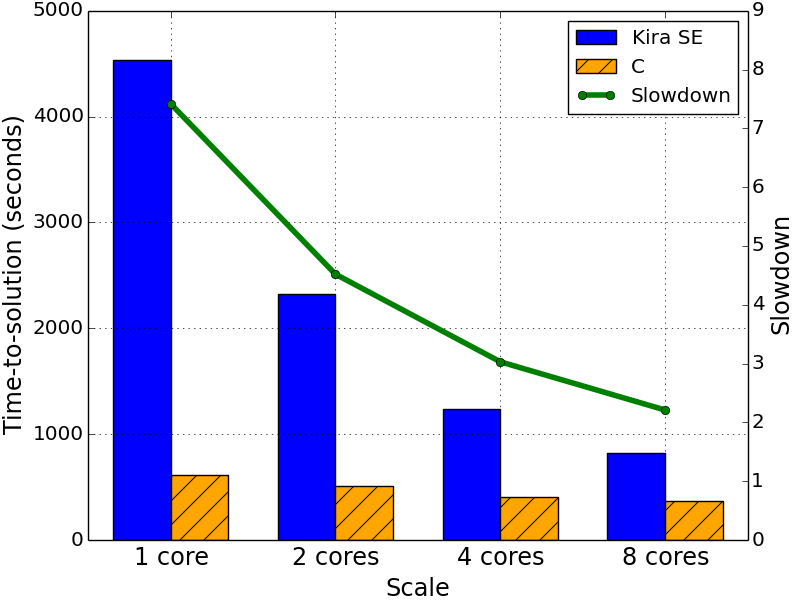
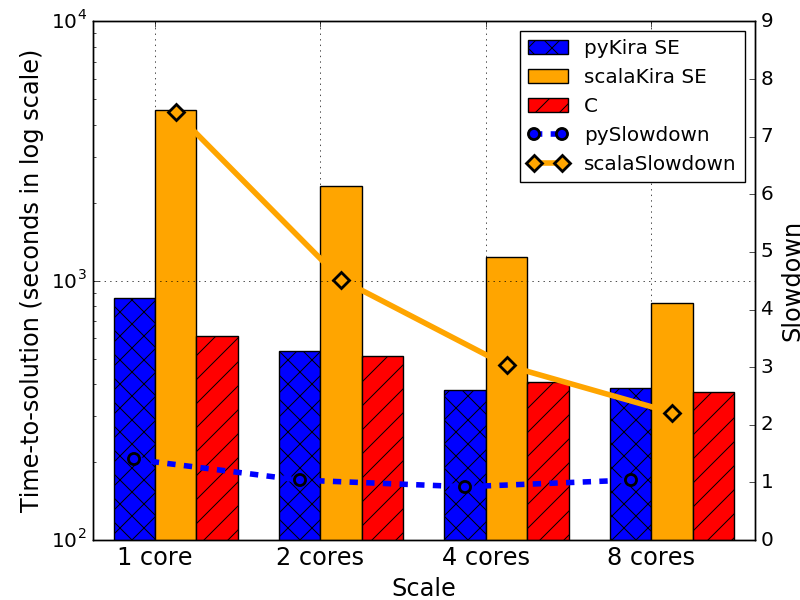
update figures with pyKira perf

diff --git a/pictures/scaleup.py b/pictures/scaleup.py
@@ -4,30 +4,40 @@ import numpy as np
 import matplotlib.pyplot as plt
 
 N = 4
-Kira = (4539, 2322, 1236, 819)
+scalaKira = (4539, 2322, 1236, 819)
+pyKira = (855, 537, 378, 386)
 C = (612, 514, 408, 371)
-Slowdown=(7.42, 4.52, 3.03, 2.21)
+scalaSlowdown=(7.42, 4.52, 3.03, 2.21)
+pySlowdown=(1.4, 1.04, 0.925, 1.04)
 
-ind = 0.15+np.arange(N)  # the x locations for the groups
-width = 0.35       # the width of the bars
+ind = 0.125+np.arange(N)  # the x locations for the groups
+width = 0.25       # the width of the bars
 
 ax = plt.gca()
 ax.grid(True)
 plt.yticks(size='large')
 ax_c = ax.twinx()
 ax_c.set_ylim([0, 9])
-rects3 = ax_c.plot(ind+width, Slowdown, linestyle='-', marker='o', c='green', linewidth=4.0)
-rects1 = ax.bar(ind, Kira, width, color='b')
-rects2 = ax.bar(ind+width, C, width, color='orange', hatch="/")
+rects1 = ax.bar(ind, pyKira, width, color='blue', hatch="x")
+rects2 = ax.bar(ind+width, scalaKira, width, color='orange')
+rects3 = ax.bar(ind+width*2, C, width, color='red', hatch="/")
+rects4 = ax_c.plot(ind+width*0.5, pySlowdown, linestyle='--', marker='o', markersize=8.0, mew=2.0, c='blue', linewidth=4.0)
+rects5 = ax_c.plot(ind+width*1.5, scalaSlowdown, linestyle='-', marker='D', markersize=8.0, mew=2.0, c='orange', linewidth=4.0)
+
+
+
+
+
 plt.yticks(size='large')
 # add some text for labels, title and axes ticks
 ax.set_xlabel('Scale', size='x-large')
-ax.set_ylabel('Time-to-solution (seconds)', size='x-large')
+ax.set_ylabel('Time-to-solution (seconds in log scale)', size='x-large')
+ax.set_yscale("log")
 ax_c.set_ylabel('Slowdown', size='x-large')
 ax.set_xticks(ind+width)
 ax.set_xticklabels( ('1 core', '2 cores', '4 cores', '8 cores'), size='x-large') 
 
-ax.legend( (rects1[0], rects2[0], rects3[0]), ('Kira SE', 'C', 'Slowdown') )
+ax.legend( (rects1[0], rects2[0], rects3[0], rects4[0], rects5[0]), ('pyKira SE', 'scalaKira SE', 'C', 'pySlowdown', 'scalaSlowdown') )
 
 plt.show()
 

diff --git a/pictures/locality.py b/pictures/locality.py
@@ -4,16 +4,18 @@ import numpy as np
 import matplotlib.pyplot as plt
 
 N = 6
-Kira = (100, 98, 98, 93.5, 98.4, 96.1)
+Kira = (100, 69, 73, 80, 82, 82)
+KiraSDV = (0, 0.02, 1.06, 0.55, 0.38, 0.19)
 C = (100, 50, 25, 12.5, 6.3, 3.2)
 
 ind = 0.15+np.arange(N)  # the x locations for the groups
 width = 0.35       # the width of the bars
 
 ax = plt.subplot()
-rects1 = ax.bar(ind, Kira, width, color='b')
-rects2 = ax.bar(ind+width, C, width, color='orange', hatch="/")
-ax.set_ylim([0, 120])
+rects1 = ax.bar(ind, Kira, width, color='blue', hatch="x", yerr=np.multiply(KiraSDV, 1), ecolor='black', error_kw=dict(markersize=4, capsize=10, elinewidht=2))
+#rects1 = ax.bar(ind, Kira, width, yerr=KiraSDV, color='b', ecolor='black', error_kw=dict(elinewidth=4, capsize=4, markersize=10))
+rects2 = ax.bar(ind+width, C, width, color='red', hatch="/")
+ax.set_ylim([0, 100])
 ax.grid(True)
 
 # add some text for labels, title and axes ticks
@@ -22,7 +24,7 @@ ax.set_ylabel('Locality hit ratio (percentage)', size='x-large')
 ax.set_xticks(ind+width)
 ax.set_xticklabels( ('8', '32', '64', '128', '256', '512'), size='x-large') 
 plt.yticks(size='large')
-ax.legend( (rects1[0], rects2[0]), ('Kira SE', 'C') )
+ax.legend( (rects1[0], rects2[0]), ('pyKira', 'C Estimated') )
 
 plt.show()
 

diff --git a/pictures/scaleout.py b/pictures/scaleout.py
@@ -6,14 +6,16 @@ import matplotlib.pyplot as plt
 N = 6
 Kira = (3806, 996, 511, 268, 152, 104)
 C = (1874, 887, 398, 236, 161, 134)
+pyKira = (2057, 290, 173, 100, 72, 47)
 
 ind = 0.15+np.arange(N)  # the x locations for the groups
-width = 0.35       # the width of the bars
+width = 0.25       # the width of the bars
 
 ax = plt.subplot()
 ax.set_yscale("log", nonposx='clip')
-rects1 = ax.bar(ind, Kira, width, color='b', log='True')
-rects2 = ax.bar(ind+width, C, width, color='orange', hatch="/", log='True')
+rects1 = ax.bar(ind+width, Kira, width, color='orange')
+rects2 = ax.bar(ind, pyKira, width, color='blue', hatch="x")
+rects3 = ax.bar(ind+width*2, C, width, color='red', hatch="/")
 
 ax.set_ylim([1, 10000])
 ax.grid(True)
@@ -24,7 +26,7 @@ ax.set_ylabel('Time-to-solution (seconds)', size='x-large')
 ax.set_xticks(ind+width)
 ax.set_xticklabels( ('8', '32', '64', '128', '256', '512'), size='x-large') 
 plt.yticks(size='large')
-ax.legend( (rects1[0], rects2[0]), ('Kira SE', 'C') )
+ax.legend( (rects2[0], rects1[0], rects3[0]), ('pyKira', 'scalaKira', 'C') )
 
 plt.show()
 
